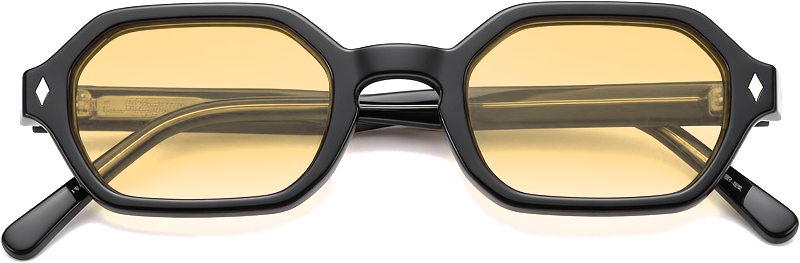
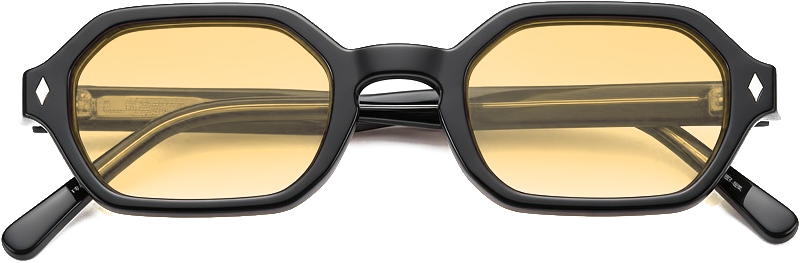
Stand the frames on the same ground as the face
The angles were cut out against the ivory page and the worn portraits are
shot on a grey sweep, so the gallery went cream, cream, cream, cream and
then landed on a hard grey rectangle. The plates take the sweep now,
sampled off the portraits, and the column reads as one set of photographs
rather than two.

Doing it exposed what the cream had been hiding. The cutouts were matted
against the page, so the soft contact shadow never reached the white the
flood fill was looking for and survived as opaque cream under each frame,
and on the side view the gap enclosed by the temple kept the sweep
entirely. Both were invisible on ivory and neither is on grey.

The masters are gone, so scripts/reclean-cutouts.mjs re-cuts the published
PNGs. Two fills rather than one, which took a mistake to find. Coming in
from the edge it may walk down through the contact shadow, because the
frame is dark and stops it. Seeded from paper already inside the frame it
may not: the smoke lens is a neutral grey at 178 that the permissive rule
walks straight through, and the first attempt quietly ate the bottom half
of both lenses. From inside, only pure sweep is passable, which cannot
reach a lens because the palest one is 124 at chroma 80.

The collection tiles move with it, where it matters most: hovering a tile
cross-fades the frame into the same man wearing it, and that was a cream
plate dissolving into a grey photograph.

diff --git a/src/components/product/colorway-card.tsx b/src/components/product/colorway-card.tsx
@@ -22,7 +22,7 @@ export function ColorwayCard({
 
   return (
     <article className={cn("group relative", className)}>
-      <div className="plate relative flex aspect-5/4 items-center justify-center overflow-hidden sm:aspect-16/10">
+      <div className="plate relative flex aspect-5/4 items-center justify-center overflow-hidden bg-studio sm:aspect-16/10">
         <div
           aria-hidden
           className="absolute inset-0 opacity-0 transition-opacity duration-1000 ease-tamiale group-hover:opacity-100"

diff --git a/src/app/globals.css b/src/app/globals.css
@@ -18,6 +18,14 @@
   --color-ivory-dim: #ebe7de;
   --color-ivory-hairline: #e2ddd2;
 
+  /*
+   * The sweep the frames are photographed against, sampled from the worn
+   * portraits so the cut-out angles and the campaign shots stand on one
+   * ground. Not a paper tone and not used as one: it belongs behind an
+   * object, never behind text.
+   */
+  --color-studio: #c5c0bc;
+
   --color-obsidian: #16150f;
   --color-obsidian-raised: #201f18;
   --color-obsidian-hairline: #33312a;

diff --git a/src/components/product/product-stage.tsx b/src/components/product/product-stage.tsx
@@ -137,7 +137,7 @@ export function ProductStage({
               <div
                 key={angle.id}
                 className={cn(
-                  "plate flex aspect-4/3 items-center justify-center",
+                  "plate flex aspect-4/3 items-center justify-center bg-studio",
                   index > 0 && "mt-5",
                 )}
               >
